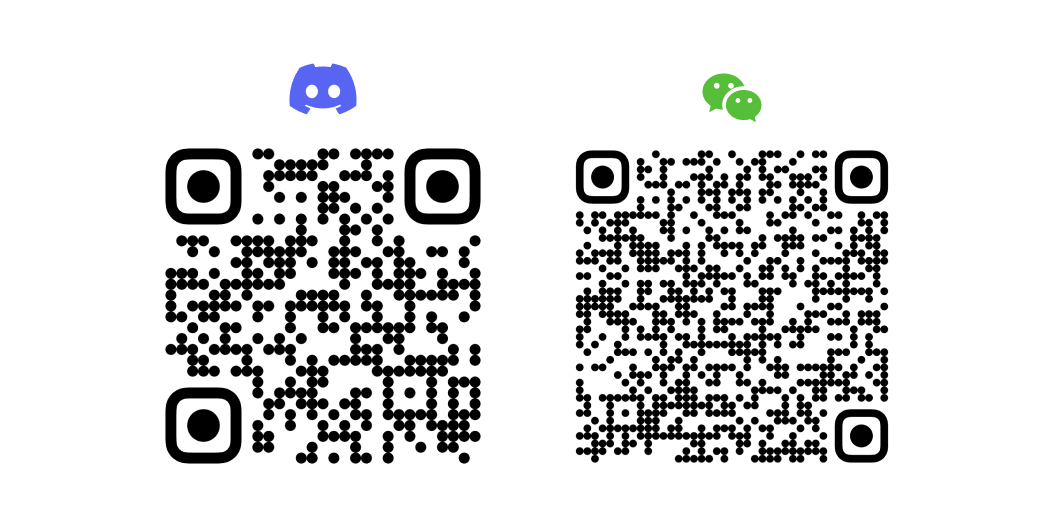
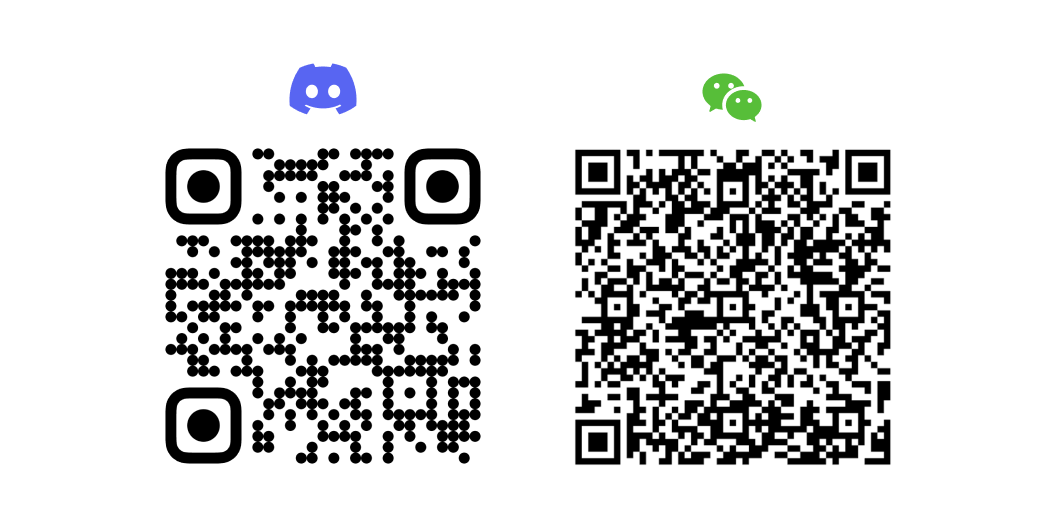
docs: update qrc

Changed region(s): [[0.5465, 0.2738, 0.8501, 0.8821]]

diff --git a/2024-08-04/src/slides.md b/2024-08-04/src/slides.md
@@ -295,18 +295,24 @@ Guii.AI
 </v-clicks>
 
 ---
+layout: cover
+---
 
-<div flex flex-col justify-center items-center gap-5>
+# 谢谢！
+
+幻灯片可在 [GitHub.com/LittleSound/talks](https://github.com/LittleSound/talks) 查看
+
+<div mt-10 flex flex-col justify-center items-center gap-5 text-left>
   <div flex items-center gap-4>
-    <img src="/logo-guii.png" class="size-25" alt="Guii" />
+    <img src="/logo-guii.png" class="size-30" alt="Guii" />
     <div space-y-3>
-      <h3 class="!text-xl"><span bg-blue-3 text-black p-1 px-2>与 Guii 一起写前端</span></h3>
+      <h3 class="!text-xl"><span rounded-xl bg-blue-3 text-black p-1 px-4>与 Guii 一起写前端</span></h3>
       <h1 text-white class="!text-white">加群了解更多信息！</h1>
     </div>
   </div>
-  <div flex justify-center items-center>
-    <div bg-white rounded-t-2xl>
-      <img h-400px object-cover src="/qrc.png" />
+  <div flex flex-col justify-start items-center h-screen>
+    <div bg-white rounded-t-2xl h-400px>
+      <img h-230px object-cover src="/qrc.png" />
     </div>
   </div>
 </div>
